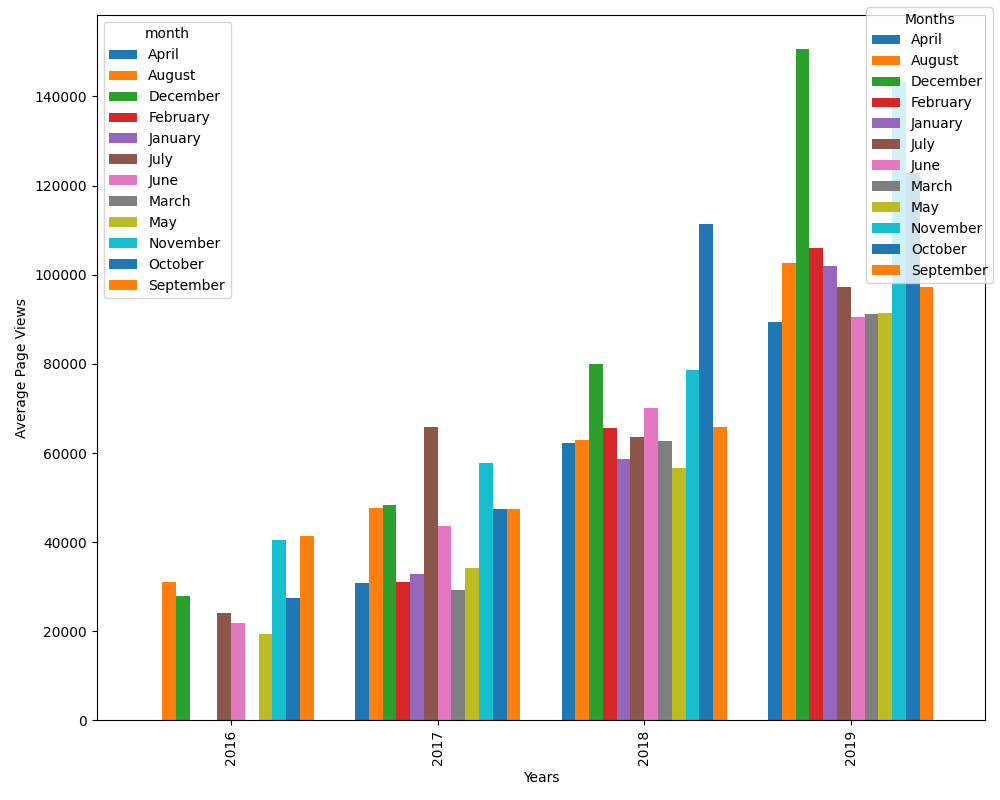
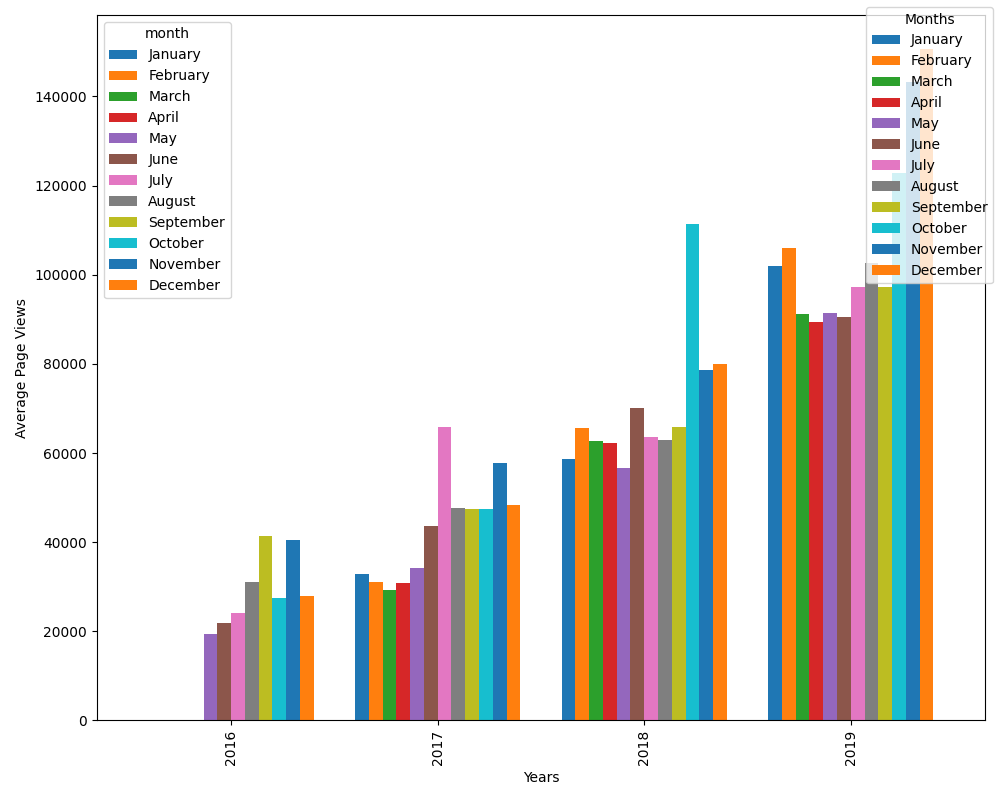
fix: function draw_bar_plot

diff --git a/time_series_visualizer.py b/time_series_visualizer.py
@@ -38,16 +38,25 @@ def draw_bar_plot():
     df_copy = df.copy()
     df_copy['date'] = pd.to_datetime(df_copy.index)
     df_copy['year'] = df_copy['date'].dt.year
-    df_copy['month'] = df_copy['date'].dt.strftime('%B')
+    df_copy['month'] = df_copy['date'].dt.month_name()
+
+    # Create a categorical type for months to ensure they are in order
+    month_order = ['January', 'February', 'March', 'April', 'May', 'June', 
+                   'July', 'August', 'September', 'October', 'November', 'December']
+    df_copy['month'] = pd.Categorical(df_copy['month'], categories=month_order, ordered=True)
+
+    # Group by year and month, then calculate the mean
     df_bar = df_copy.groupby(['year', 'month'])['value'].mean().unstack()
 
     # Draw bar plot
     fig, ax = plt.subplots(figsize=(10, 8))
     df_bar.plot(kind='bar', ax=ax, width=0.8)
 
+    # Set labels
     ax.set_xlabel('Years')
     ax.set_ylabel('Average Page Views')
 
+    # Set legend title and position
     fig.legend(title='Months', bbox_to_anchor=(1.0, 1.0))
 
     plt.tight_layout()
